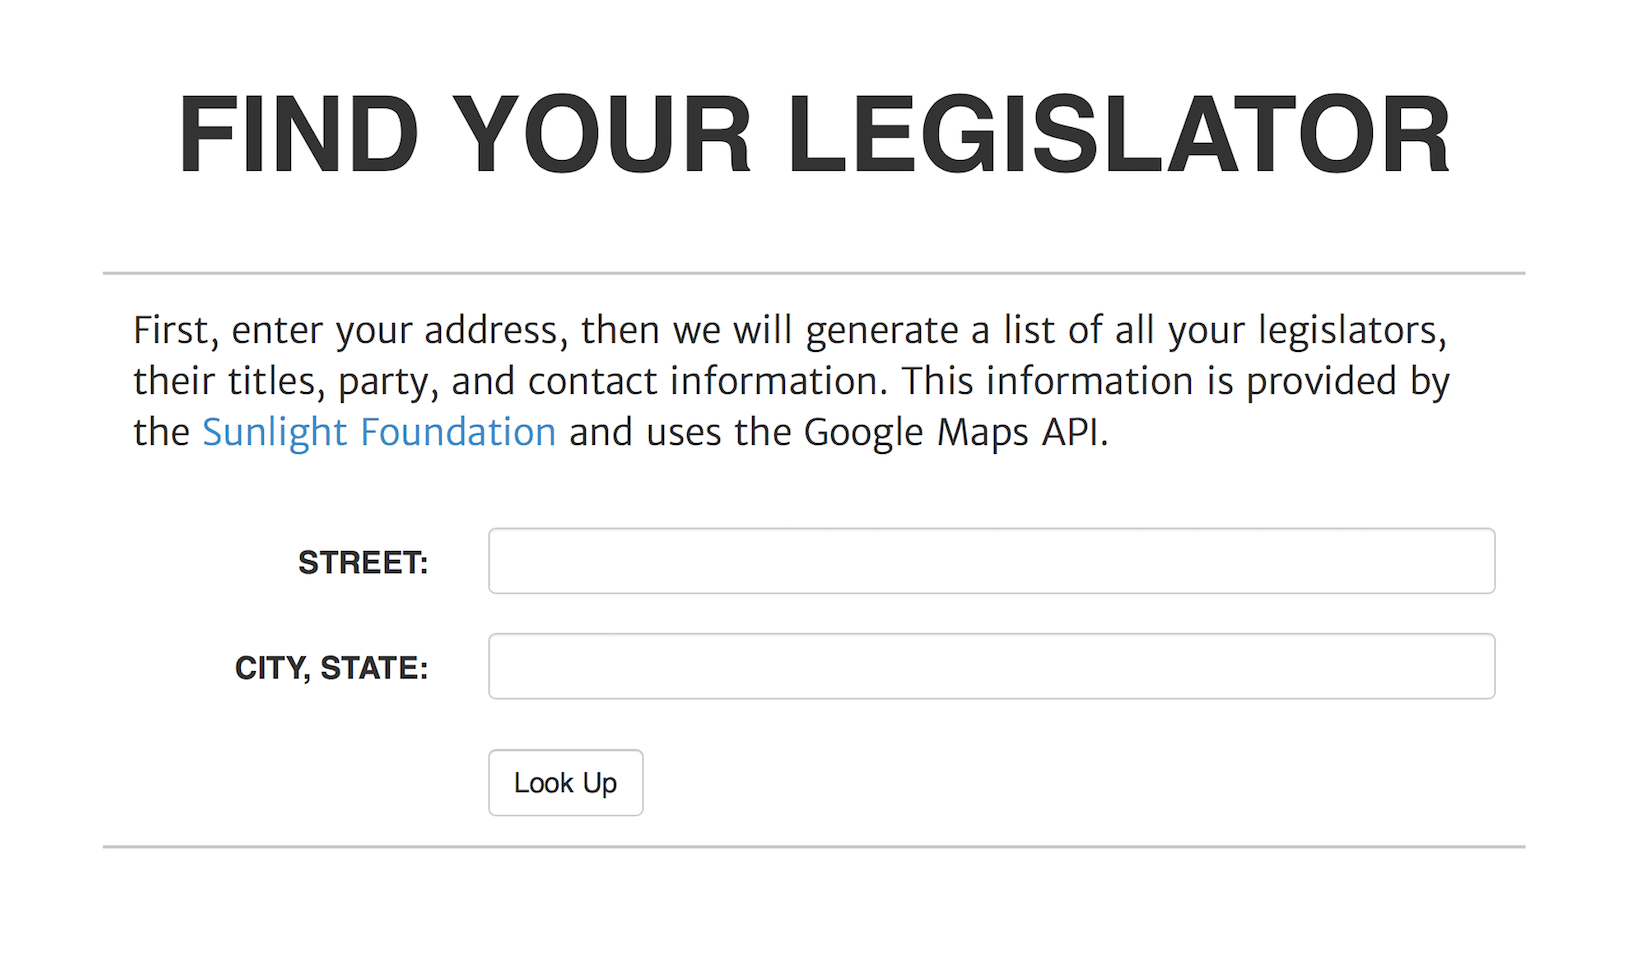
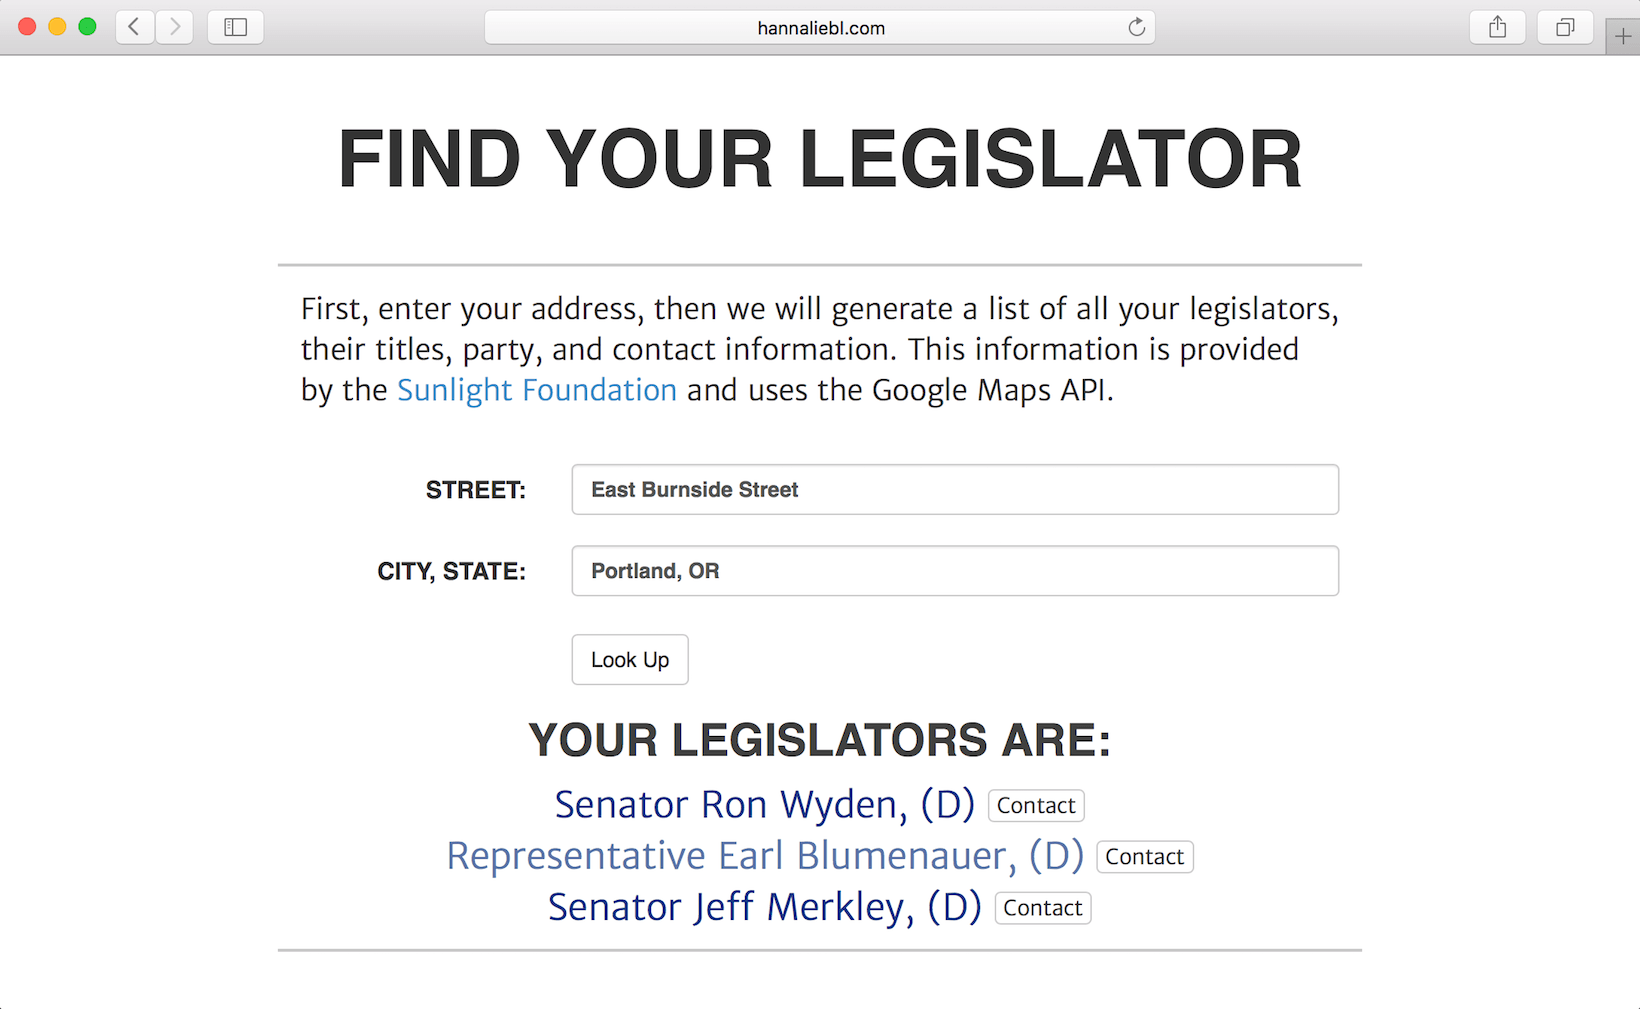
Fill in more content for work pages, optimize some more screenshots for work pages

diff --git a/content/work/sandra-mathern-dance.md b/content/work/sandra-mathern-dance.md
@@ -11,4 +11,13 @@ thumbnail = "/img/work/sandra-mathern-dance.png"
 title = "Sandra Mathern Dance"
 
 +++
-Oh, indeed.
+<div class="text-center inline-image-container content-container-expanded">
+  <img src="/img/work/sandra-mathern-dance.png" alt="Sandra Mathern's portfolio, featuring photographs of her dance performances." class="img-responsive img-center"></img>
+  <div class="caption-container">
+    <div class="inline-image-caption">Sandra Mathern's portfolio, featuring photographs of her dance performances.</div>
+  </div>
+</div>
+
+Sandra Mathern needed an online portfolio to showcase videos and photos of her performances, to list the awards she has received and the locations she has performed, and to display other professional information about her work. I worked on the front end implementation and design of this site and Cyrus Smith did the custom JavaScript development. We met with Sandra multiple times and went over what she needed and refined the design and the uses she had in mind for the site.
+
+The site features a sparse opening page that primarily highlights photographs of Sandra, and the photo-heavy content continues on the other pages. The entire site, both pictures and text, is easily updated through WordPress, and uses a responsive design to scale flexibly from mobile devices up to large desktop monitors.

diff --git a/content/work/find-your-legislator.md b/content/work/find-your-legislator.md
@@ -11,4 +11,11 @@ thumbnail = "/img/work/find-your-legislator.png"
 title = "Find Your Legislator"
 
 +++
-Oh, indeed.
+<div class="text-center inline-image-container content-container-expanded">
+  <img src="/img/work/find-your-legislator.png" alt="A screenshot of the site displaying senators and representatives for an inputted address." class="img-responsive img-center"></img>
+  <div class="caption-container">
+    <div class="inline-image-caption">The site takes an address and finds the local senators and representatives for that address.</div>
+  </div>
+</div>
+
+This was a personal project to practice working with JavaScript and APIs. The site looks up legislators based on a user-inputted address. The base styles are Bootstrap that I modified to create a simple design with responsive breakpoints. The page uses a jQuery script to take an inputted address and then uses the [Google Maps API](https://developers.google.com/maps/) to geocode that address into latitude and longitude coordinates. The coordinates are then used with [Sunlight Lab's Congress API](https://sunlightlabs.github.io/congress/) to look up the legislators that match the location. To improve the UI, I also added classes to the displayed legislator names so that they are colored to correspond to party and legislative house.

diff --git a/content/work/leap-year-calculator.md b/content/work/leap-year-calculator.md
@@ -11,4 +11,11 @@ thumbnail = "/img/work/leap-year-calculator.png"
 title = "Leap Year Calculator"
 
 +++
-Oh, indeed.
+<div class="text-center inline-image-container content-container-expanded">
+  <img src="/img/work/leap-year-calculator.png" alt="A screenshot of the site, which calculates leap years." class="img-responsive img-center"></img>
+  <div class="caption-container">
+    <div class="inline-image-caption">The site with some leap year calculation options.</div>
+  </div>
+</div>
+
+This was a quick, fun personal project both to practice JavaScript and website design. The site does calculations related to leap years based on user input. It goes from simply telling the user when the next leap year is to calculating whether a single year is a leap year to finding all the leap years within a given range. The site uses JavaScript to do these calculations and jQuery to handle inputting user data and then showing the results. I began with the Bootstrap framework to speed up development time, but I modified these styles to create a relatively flat, elegant design, with some jQuery and CSS3 effects to improve usability and user experience. I also made the logo used at the top of the page.
